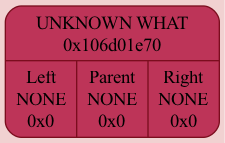
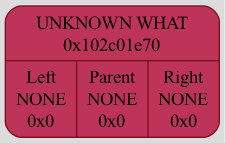
base reader done

Changed region(s): [[0.4356, 0.2517, 0.7156, 0.3636]]

diff --git a/dump/tree.html b/dump/tree.html
@@ -11,17 +11,72 @@
 	Colors meanings: 
 		<div class='circle' style='background-color: #D5CFE1; border-color: #8797b2;'>left subtree node</div>		<span style='color: #187AE8'>&#11153; left subtree edge</span>
 		<div class='circle' style='background-color: #BDEF9E; border-color: #99c2a2;'>right subtree node</div>		<span style='color: #48E818'>&#11153; right subtree edge</span>
-		<div class='circle' style='background-color: #FBEE21; border-color: #D3C70D;'>root node</div>
-		<div class='circle' style='background-color: #F18805; border-color: #AF3800;'>new node</div>	</div>
+		<div class='circle' style='background-color: #FBEE21; border-color: #D3C70D;'>root node</div>			<span style='color: #3d1308'>&#11153; unknown what edge</span>
+		<div class='circle' style='background-color: #F18805; border-color: #AF3800;'>new node</div>
+		<div class='circle' style='background-color: #BD3458; border-color: #7b0d1e;'>unknown what node</div>	</div>
 
-						<b>Binary Tree[0x16bcd31e0] born at "/Users/anatolij/Documents/GitHub/Akinator/source/main.cpp": 8, name 'tree'</b>
+						<b>Binary Tree[0x16fd5b1e0] born at "/Users/anatolij/Documents/GitHub/Akinator/source/main.cpp": 8, name 'tree'</b>
 	<div class='dump'>
-	DUMP #1: function Start was called from /Users/anatolij/Documents/GitHub/Akinator/source/main.cpp: 12
+	DUMP #1: function TreeCtor was called from /Users/anatolij/Documents/GitHub/Akinator/source/main.cpp: 9
 	<img src='img/graph1.png' class='img'></div>
 
+						<b>Binary Tree[0x1000b5660] born at "/Users/anatolij/Documents/GitHub/Akinator/source/Akinator_base.cpp": 8, name 'tree'</b>
 	<div class='dump'>
-	DUMP #2: function End was called from /Users/anatolij/Documents/GitHub/Akinator/source/main.cpp: 14
+	DUMP #2: function ReadAndCreateNode was called from /Users/anatolij/Documents/GitHub/Akinator/source/Akinator_base.cpp: 10
 	<img src='img/graph2.png' class='img'></div>
+
+	<div class='dump'>
+	DUMP #3: function ReadAndCreateNode was called from /Users/anatolij/Documents/GitHub/Akinator/source/Akinator_base.cpp: 10
+	<img src='img/graph3.png' class='img'></div>
+
+	<div class='dump'>
+	DUMP #4: function ReadAndCreateNode was called from /Users/anatolij/Documents/GitHub/Akinator/source/Akinator_base.cpp: 10
+	<img src='img/graph4.png' class='img'></div>
+
+	<div class='dump'>
+	DUMP #5: function ReadAndCreateNode was called from /Users/anatolij/Documents/GitHub/Akinator/source/Akinator_base.cpp: 10
+	<img src='img/graph5.png' class='img'></div>
+
+	<div class='dump'>
+	DUMP #6: function ReadAndCreateNode was called from /Users/anatolij/Documents/GitHub/Akinator/source/Akinator_base.cpp: 10
+	<img src='img/graph6.png' class='img'></div>
+
+	<div class='dump'>
+	DUMP #7: function ReadAndCreateNode was called from /Users/anatolij/Documents/GitHub/Akinator/source/Akinator_base.cpp: 10
+	<img src='img/graph7.png' class='img'></div>
+
+	<div class='dump'>
+	DUMP #8: function ReadAndCreateNode was called from /Users/anatolij/Documents/GitHub/Akinator/source/Akinator_base.cpp: 10
+	<img src='img/graph8.png' class='img'></div>
+
+	<div class='dump'>
+	DUMP #9: function ReadAndCreateNode was called from /Users/anatolij/Documents/GitHub/Akinator/source/Akinator_base.cpp: 10
+	<img src='img/graph9.png' class='img'></div>
+
+	<div class='dump'>
+	DUMP #10: function ReadAndCreateNode was called from /Users/anatolij/Documents/GitHub/Akinator/source/Akinator_base.cpp: 10
+	<img src='img/graph10.png' class='img'></div>
+
+	<div class='dump'>
+	DUMP #11: function ReadAndCreateNode was called from /Users/anatolij/Documents/GitHub/Akinator/source/Akinator_base.cpp: 10
+	<img src='img/graph11.png' class='img'></div>
+
+	<div class='dump'>
+	DUMP #12: function ReadAndCreateNode was called from /Users/anatolij/Documents/GitHub/Akinator/source/Akinator_base.cpp: 10
+	<img src='img/graph12.png' class='img'></div>
+
+	<div class='dump'>
+	DUMP #13: function ReadAndCreateNode was called from /Users/anatolij/Documents/GitHub/Akinator/source/Akinator_base.cpp: 10
+	<img src='img/graph13.png' class='img'></div>
+
+	<div class='dump'>
+	DUMP #14: function ReadAndCreateNode was called from /Users/anatolij/Documents/GitHub/Akinator/source/Akinator_base.cpp: 10
+	<img src='img/graph14.png' class='img'></div>
+
+						<b>Binary Tree[0x16fd5b1e0] born at "/Users/anatolij/Documents/GitHub/Akinator/source/main.cpp": 8, name 'tree'</b>
+	<div class='dump'>
+	DUMP #15: function TreeDtor was called from /Users/anatolij/Documents/GitHub/Akinator/source/main.cpp: 13
+	<img src='img/graph15.png' class='img'></div>
 
 	</pre></tt></body>
 </html>

diff --git a/dump/styles.css b/dump/styles.css
@@ -46,4 +46,5 @@ b {
 	width: 90%;
 	height: 70%;
 	object-fit: contain;
+	padding: 10px 0px 0px 0px;
 }

diff --git a/source/Akinator_base.cpp b/source/Akinator_base.cpp
@@ -3,6 +3,12 @@
 
 static BinaryTreeStatusCode ReadAndCreateNode(Node_t* node, FILE* base_file) {
 
+	BinaryTreeStatusCode tree_status = TREE_NO_ERROR;
+
+	static INIT_TREE(tree);
+	tree.root = FindTreeRoot(node);
+	BINARY_TREE_GRAPH_DUMP(&tree, "ReadAndCreateNode", node);
+
 	int bracket = fgetc(base_file);
 	static int bracket_checker = 1;
 	int space_between_quote_and_bracket = 0;
@@ -14,23 +20,36 @@ static BinaryTreeStatusCode ReadAndCreateNode(Node_t* node, FILE* base_file) {
 		return TREE_NO_ERROR;
 	else
 		TREE_ERROR_CHECK(TREE_BASE_SYNTAX_ERROR);
+
+#ifdef PRINT_DEBUG
 	printf("(%d)%c", bracket, bracket);
+#endif
 
 	char cur_node[NODE_DATA_MAX_LENGTH] = {};
 	fscanf(base_file, "\"%[^\"]\"", cur_node);
-	if (StrLen(cur_node)) printf("\"%s\"", cur_node);
+
+#ifdef PRINT_DEBUG
+	if (*cur_node) printf("\"%s\"", cur_node);
+#endif
 
 	fscanf(base_file, "%*[^{}]%n", &space_between_quote_and_bracket);
 	if (!space_between_quote_and_bracket) {
 		bracket = fgetc(base_file);
+#ifdef PRINT_DEBUG
 		printf("%c(%d)", bracket, bracket);
+#endif
 		bracket_checker--;
 		fscanf(base_file, "%*[^{}]");
 	}
+#ifdef PRINT_DEBUG
 	printf("\n");
+#endif
 
-	if (!*cur_node)
+	if (!*cur_node) {
+		fscanf(base_file, "%*[^{}]");
+		ReadAndCreateNode(node->parent, base_file);
 		return TREE_NO_ERROR;
+	}
 
 	Node_t* new_root = CreateNode(cur_node, NULL, NULL, node);
 
@@ -52,6 +71,9 @@ static BinaryTreeStatusCode ReadAndCreateNode(Node_t* node, FILE* base_file) {
 		TREE_ERROR_CHECK(TREE_BASE_SYNTAX_ERROR);
 
 	if (bracket == '}') {
+#ifdef PRINT_DEBUG
+		printf("before closed bracket: %s\n", cur_node);
+#endif
 		ReadAndCreateNode(node, base_file);
 		return TREE_NO_ERROR;
 	}

diff --git a/source/Akinator_dump.cpp b/source/Akinator_dump.cpp
@@ -37,8 +37,10 @@ BinaryTreeStatusCode BinaryTreeHtmlDumpStart() {
 	HTML_PRINTF("\t\t<span style='color: %.7s'>&#11153; left subtree edge</span>\n", color.left_edge + 1);
 	HTML_PRINTF("\t\t<div class='circle' style='background-color: %.7s; border-color: %.7s;'>right subtree node</div>", color.right_node + 1, color.right_node_border + 1);
 	HTML_PRINTF("\t\t<span style='color: %.7s'>&#11153; right subtree edge</span>\n", color.right_edge + 1);
-	HTML_PRINTF("\t\t<div class='circle' style='background-color: %.7s; border-color: %.7s;'>root node</div>\n", color.root_node + 1, color.root_node_border + 1);
-	HTML_PRINTF("\t\t<div class='circle' style='background-color: %.7s; border-color: %.7s;'>new node</div>", color.new_node + 1, color.new_node_border + 1);
+	HTML_PRINTF("\t\t<div class='circle' style='background-color: %.7s; border-color: %.7s;'>root node</div>", color.root_node + 1, color.root_node_border + 1);
+	HTML_PRINTF("\t\t\t<span style='color: %.7s'>&#11153; unknown what edge</span>\n", color.unknown_what_edge + 1);
+	HTML_PRINTF("\t\t<div class='circle' style='background-color: %.7s; border-color: %.7s;'>new node</div>\n", color.new_node + 1, color.new_node_border + 1);
+	HTML_PRINTF("\t\t<div class='circle' style='background-color: %.7s; border-color: %.7s;'>unknown what node</div>", color.unknown_what_node + 1, color.unknown_what_node_border + 1);
 	HTML_PRINTF("\t</div>\n\n");
 
 #undef HTML_PRINTF
@@ -119,6 +121,7 @@ BinaryTreeStatusCode BinaryTreeCssFile() {
 			   "\twidth: 90%%;\n"\
 			   "\theight: 70%%;\n"\
 			   "\tobject-fit: contain;\n"\
+			   "\tpadding: 10px 0px 0px 0px;\n"\
 			   "}\n");
 
 #undef CSS_PRINTF

diff --git a/include/Akinator.hpp b/include/Akinator.hpp
@@ -25,15 +25,17 @@ typedef char* Data_t;
 	TREE_ERROR_CHECK(tree_status);				\
 }
 
-#define TREE_CTOR(tree) {						 \
-	tree_status = TreeCtor(tree);				\
-	TREE_ERROR_CHECK(tree_status);				\
+#define TREE_CTOR(tree) {						 		 \
+	tree_status = TreeCtor(tree);						\
+	TREE_ERROR_CHECK(tree_status);						\
+	BINARY_TREE_GRAPH_DUMP(tree, "TreeCtor", NULL);		\
 }
 
-#define TREE_DTOR(root) {						 \
-	TREE_HTML_DUMP_FINISH();					\
-	tree_status = TreeDtor(root);				\
-	TREE_ERROR_CHECK(tree_status);				\
+#define TREE_DTOR(root) {						 		 \
+	BINARY_TREE_GRAPH_DUMP(&tree, "TreeDtor", NULL); 	\
+	TREE_HTML_DUMP_FINISH();							\
+	tree_status = TreeDtor(root);						\
+	TREE_ERROR_CHECK(tree_status);						\
 }
 
 struct Node_t {
@@ -72,4 +74,5 @@ BinaryTreeStatusCode TreeDtor(Node_t* node);
 
 Node_t* CreateNode(Data_t data, Node_t* left, Node_t* right, Node_t* parent);
 BinaryTreeStatusCode IsRootUnknownWhat(Node_t* root);
+Node_t* FindTreeRoot(Node_t* node);
 

diff --git a/source/Akinator.cpp b/source/Akinator.cpp
@@ -35,7 +35,6 @@ Node_t* CreateNode(Data_t data, Node_t* left, Node_t* right, Node_t* parent) {
 	Node_t* node = (Node_t*)calloc(1, sizeof(*node));
 
 	int data_size = StrLen(data);
-	printf("Create node: %s(%d)\n", data, *data);
 	node->data = (Data_t)calloc((size_t)data_size + 1, sizeof(char));
 	for (int i = 0; i < data_size; i++) node->data[i] = data[i];
 	node->data[data_size] = '\0';
@@ -55,4 +54,19 @@ BinaryTreeStatusCode IsRootUnknownWhat(Node_t* root) {
 		return TREE_ROOT_IS_UNKNOWN;
 
 	return TREE_NO_ERROR;
+}
+
+Node_t* FindTreeRoot(Node_t* node) {
+
+	static Node_t* Root = node;
+
+	if (!node)
+		return Root;
+
+	if (!node->parent)
+		return Root = node;
+
+	FindTreeRoot(node->parent);
+
+	return Root;
 }

diff --git a/source/main.cpp b/source/main.cpp
@@ -6,18 +6,14 @@ int main() {
 	BinaryTreeStatusCode tree_status = TREE_NO_ERROR;
 
 	INIT_TREE(tree);
-
 	TREE_CTOR(&tree);
-
-	BINARY_TREE_GRAPH_DUMP(&tree, "Start", NULL);
 	AKINATOR_READ_BASE(&tree);
-	BINARY_TREE_GRAPH_DUMP(&tree, "End", NULL);
+
+
 
 	TREE_DTOR(tree.root);
-
 #ifdef HTML_OPEN
 	system(OPEN HTML_FILE_);
 #endif
-
 	return 0;
 }

diff --git a/include/GraphUtils.hpp b/include/GraphUtils.hpp
@@ -1,7 +1,7 @@
 #pragma once
 
 static struct Colors {
-	const char* dot_background 						= "\"#F1D1D1\"";
+	const char* dot_background 						= "\"#DCDCDC\"";
 	const char* html_background 					= "\"#FFFAFA\"";
 	const char* address 							= "\"#4B0082\"";
 	const char* path 								= "\"#FFA500\"";
